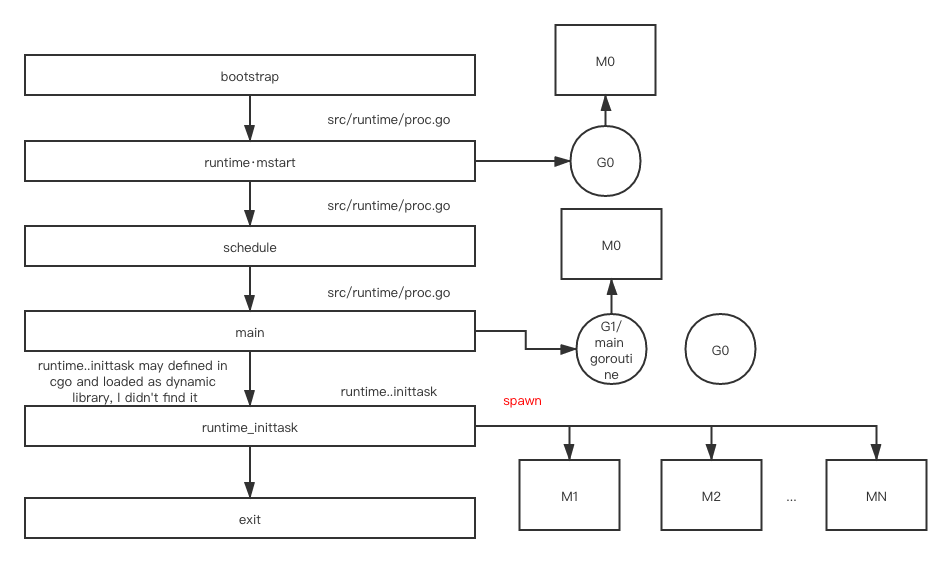
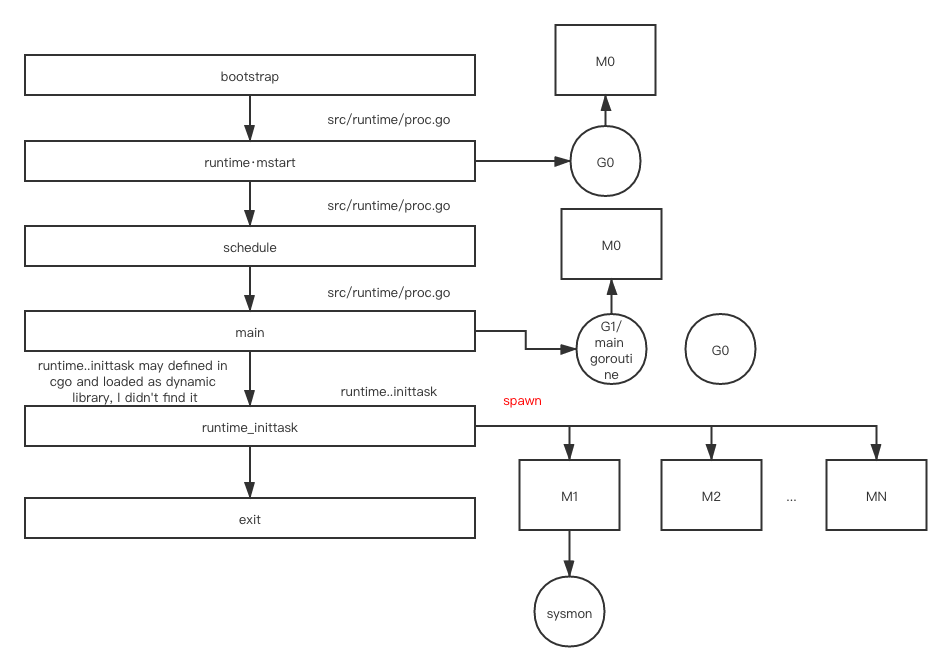
goroutine done

diff --git a/runtime/goroutine/goroutine_cn.md b/runtime/goroutine/goroutine_cn.md
@@ -1,0 +1,139 @@
+# goroutine![image title](http://www.zpoint.xyz:8080/count/tag.svg?url=github%2Fgo-Internals%2F/runtime/goroutine_cn)
+
+## 目录
+
+[相关位置文件](#相关位置文件)
+
+[概览](#概览)
+
+[调度](#调度)
+
+[为什么](#为什么)
+
+[更多资料](#更多资料)
+
+## 相关位置文件
+
+* src/runtime/runtime2.go
+* src/runtime/proc.go
+* src/plugin/plugin_dlopen.go
+
+## 概览
+
+如果你对 **MPG 在Go协程调度中代表什么并且是如何工作的** 感到疑惑, 请先参考 [更多资料](#更多资料) 中的 [scheduling-in-go-part1](https://www.ardanlabs.com/blog/2018/08/scheduling-in-go-part1.html) 到 [scheduling-in-go-part3](https://www.ardanlabs.com/blog/2018/12/scheduling-in-go-part3.html) 
+
+根据上述文章以及 Go 源码中的注释
+
+> M
+>
+> 操作系统线程,  ‘M’ 是 machine 的简写, 这个线程其实是被操作系统调度的, 并且操作系统仍然负责把线程调度到某个核心上运行
+>
+> P
+>
+> 逻辑处理器, 执行 Go 代码的时候, 必须要获得的资源. M 必须拥有与之相关联的 P 才能执行 Go 代码. 但是 M 不论在是否存在与之对应的 P 的时候, 都能被阻塞住或者卡在系统调用中
+>
+> G
+>
+> 一个 Goroutine 就是一个 [协程](https://zh.wikipedia.org/wiki/%E5%8D%8F%E7%A8%8B), 但是这是 Go, 所以我们把字母 “C”(Coroutine) 替换成 “G”(Goroutine), 你可以把 Goroutine 当成应用级别的线程, 他们和系统级别的线程在很多地方都非常相似, 只是说操作系统的线程是在 CPU 核心上进行上下文切换(切入切出), 而 Goroutine 是在 M 上进行上下文切换(切入切出)
+
+
+
+![mpg](./mpg.png)
+
+图片来自 [scheduling-in-go-part2](https://www.ardanlabs.com/blog/2018/08/scheduling-in-go-part2.html)
+
+```shell
+# GOSSAFUNC=main GOOS=linux GOARCH=amd64 go build -gcflags "-S" simple.go
+# GOSSAFUNC=main go_dev build -gcflags "-S" num_cpu.go
+# GODEBUG=schedtrace=DURATION,gctrace=1 go_dev run num_cpu.go
+# GODEBUG=schedtrace=DURATION go_dev run num_cpu.go
+find . -name '*.go' -exec grep -nHr 'inittask' {} \;
+```
+
+bootstrap 流程的一部分会在默认的 **M**(**M0**) 上运行一个 **G**, 这个 **G** 会执行 `runtime.mstart`, `runtime.mstart` 最终会进入 `schedule` 函数, `schedule` 函数会把 **G1** 调度到当前的 **M**(**M0**) 上运行, **G1** 会进入  `runtime/proc.go` 的 `main` 函数, `main` 中的 `doInit(&runtime_inittask)` 会默认初始化并生成至多 N 个 **M**(系统线程), N 是CPU核心数目, 在这之后, **G1** 运行到函数的末尾并执行 `exit(0)`
+
+实际上, 在 `runtime_inittask` 之前, 就会有一个新的  **M**(thread) 被生成, 一个 goroutine 会在 **M** 上执行 `sysmon` 函数, 之后 `runtime_inittask` 才会生成最多到 N 个 **M**(线程)
+
+我们以更直观的图表来展示一下
+
+![bootstrap](./bootstrap.png)
+
+对于 **M1** ... **MN** 中的每个 **M**, 都会有一个新的 **G** 在上面运行, 并且每个 **M** 上都会执行到 `runtime.mstart`, 通过 `runtime.mstart` 最终都会进入 `schedule` 函数并且让调度器进行调度
+
+我没有在源码中的 `go` 或 `c` 文件中找到 `runtime_inittask`, 但是我在 `src/plugin/plugin_dlopen.go` 中找到了从 `c` 动态链接库中装载 `inittask` 的方法, 也许他在 `src/runtime/asm_amd64.s` 这个汇编代码中, 后续找到再来研究这一块内容(如果你在我之前找到了, 欢迎提 pull request)
+
+## 调度
+
+可以在  `src/runtime/proc.go` 找到  `schedule` 函数的定义
+
+```go
+// 执行一轮调度: 找到一个可执行的 goroutine 并执行它
+// 这个函数不会返回
+func schedule() {
+		// ...
+  	if gp == nil && gcBlackenEnabled != 0 {
+		gp = gcController.findRunnableGCWorker(_g_.m.p.ptr())
+		tryWakeP = tryWakeP || gp != nil
+		}
+  	if gp == nil {
+		// 隔一段时间检查一下全局 goroutine 队列, 来保证公平
+		// 不然的话, 两个在本地队列的 goroutine 可以通过循环互相产生对方作为一个新的 goroutine 的方式, 来让本地队列永远有任务运行
+		if _g_.m.p.ptr().schedtick%61 == 0 && sched.runqsize > 0 {
+			lock(&sched.lock)
+			gp = globrunqget(_g_.m.p.ptr(), 1)
+			unlock(&sched.lock)
+		}
+	}
+	if gp == nil {
+		gp, inheritTime = runqget(_g_.m.p.ptr())
+	}
+	if gp == nil {
+		gp, inheritTime = findrunnable() // 这个调用会阻塞, 知道有任务可以执行为止才返回
+	}
+	// ...
+  execute(gp, inheritTime)
+}
+```
+
+调度的流程就比较清晰了
+
+(对于每个**P**)每隔61次调用调度之后, 就会尝试从全局队列里取一个任务出来, 默认情况则是从本地队列取一个任务出来(当前**P**对应的队列中)
+
+> 最后一部分的谜团就是运行队列(run queues), Go 的调度系统中有两种不同的运行队列, 全局运行队列(Global Run Queue/GRQ)和本地运行队列(Local Run Queue/LRQ), 每个 P 身上存储了一个对应的 LRQ 数据结构, 这个结构用来管理并存储 Goroutine, 这里的 Goroutine 运行时也需要依赖 P 的环境. 这些 P 身上存储的 Goroutine 轮流从 M 上面切换上去/切换出来(上下文切换). GRQ 是用来存储还没有对应的 P 的 Goroutine 的, 后续会讨论一个流程是把 Goroutine 从 GRQ 移动到 LRQ 的 (我: 上面代码中已经展示了)
+
+翻译自 [scheduling-in-go-part2](https://www.ardanlabs.com/blog/2018/08/scheduling-in-go-part2.html)
+
+![schedule](./schedule.png)
+
+
+
+在 `schedule` 中, `findrunnable` 会找到一个在当前 **P** 中可以运行的 goroutine, 本地队列是存储在 **P** 内部的
+
+## 为什么
+
+对于操作系统级别的线程(**M**)在 CPU 中进行上下文切换
+
+> 每一次上下文切换都会导致潜在的约 1000 纳秒的延时, 假设硬件的运行速度是每纳秒 12 个 CPU 指令, 你会发现在线程切换的时候本来可以执行 12000 个指令, 但是现在并没有执行, 并且线程还可能在 CPU 不同的核心间切换, CPU 缓存在这种情况下会失效, 会导致更大的线程切换开销, 更高的延时
+
+对于用户级别的协程(Goroutinue/**G**) 在 **M** 中进行上下文切换, 从操作系统的角度上看, 只是同一个线程在不停地执行指令而已, 并且只要你的 **Goroutinue** 有足够多的工作要做, 操作系统会认为你是一个 CPU 密集型的线程
+
+> 本质上, Go 把你的 IO/阻塞型 应用在操作系统层面变成了 CPU 密集型应用. 因为所有的上下文切换都发生在了应用层, 当我们通过线程运行程序时, 我们不会平均每次上下文切换都丢失大约 12000 个指令的执行时间. 在 Go 里, 相似的上下文切换占用大约 200 纳秒, 或者 2400 个指令,  并且调度器调度时会考虑到 CPU 缓存以及 [NUMA](http://frankdenneman.nl/2016/07/07/numa-deep-dive-part-1-uma-numa). 这也是为什么我们生成的线程数不需大于我们的核心数的原因
+>
+> 在 Go 中, 随着程序的运行, 我们可以认为更多的任务会被执行并且完成, 因为 Go 调度器会尝试用尽可能少的线程并且在每个线程中执行尽可能多的任务(协程), 通过这种方式降低操作系统和硬件的开销
+
+翻译自 [scheduling-in-go-part2](https://www.ardanlabs.com/blog/2018/08/scheduling-in-go-part2.html)
+
+
+
+ ## 更多资料
+
+[scheduling-in-go-part1](https://www.ardanlabs.com/blog/2018/08/scheduling-in-go-part1.html)
+
+[scheduling-in-go-part2](https://www.ardanlabs.com/blog/2018/08/scheduling-in-go-part2.html)
+
+[scheduling-in-go-part3](https://www.ardanlabs.com/blog/2018/12/scheduling-in-go-part3.html)
+
+[how-a-go-program-compiles-down-to-machine-code](https://getstream.io/blog/how-a-go-program-compiles-down-to-machine-code/)
+
+[How to call private functions (bind to hidden symbols) in GoLang](https://sitano.github.io/2016/04/28/golang-private/)
+

diff --git a/runtime/goroutine/goroutine.md b/runtime/goroutine/goroutine.md
@@ -1,5 +1,4 @@
-# goroutine
-
+# goroutine![image title](http://www.zpoint.xyz:8080/count/tag.svg?url=github%2Fgo-Internals%2F/runtime/goroutine)
 ## contents
 
 [related file](#related-file)
@@ -9,8 +8,6 @@
 [schedule](#schedule)
 
 [why](#why)
-
-[memory layout](#memory-layout)
 
 [read more](#read-more)
 
@@ -38,21 +35,23 @@ According to the above article and comment in Go source code
 >
 > A Goroutine is essentially a [Coroutine](https://en.wikipedia.org/wiki/Coroutine) but this is Go, so we replace the letter “C” with a “G” and we get the word Goroutine. You can think of Goroutines as application-level threads and they are similar to OS Threads in many ways. Just as OS Threads are context-switched on and off a core, Goroutines are context-switched on and off an M.
 
+![mpg](/Users/zpoint/Desktop/Go-Internals/runtime/goroutine/mpg.png)
 
+Above picture comes from [scheduling-in-go-part2](https://www.ardanlabs.com/blog/2018/08/scheduling-in-go-part2.html)
 
 ```shell
 # GOSSAFUNC=main GOOS=linux GOARCH=amd64 go build -gcflags "-S" simple.go
 # GOSSAFUNC=main go_dev build -gcflags "-S" num_cpu.go
 # GODEBUG=schedtrace=DURATION,gctrace=1 go_dev run num_cpu.go
-GODEBUG=schedtrace=DURATION go_dev run num_cpu.go
+# GODEBUG=schedtrace=DURATION go_dev run num_cpu.go
 find . -name '*.go' -exec grep -nHr 'inittask' {} \;
 ```
 
-Part of the bootstrap procedure use the default **M**(**M0**) to execute the run **G** which execute `runtime.mstart`, `runtime.mstart` will finally reach the `schedule` function which let **G1** runs on **M0**, **G1** will enter the `main` function defined in `runtime/proc.go`, and the `doInit(&runtime_inittask)` inside the `main` function will spawn N **M**(threads) by default, N is the number of processor number(including hyper-threading process), after that **G1** reach the end of code and call `exit(0)`
+Part of the bootstrap procedure use the default **M**(**M0**) to execute a **G** which execute `runtime.mstart`, `runtime.mstart` will finally reach the `schedule` function which let **G1** runs on **M0**, **G1** will enter the `main` function defined in `runtime/proc.go`, and the `doInit(&runtime_inittask)` inside the `main` function will spawn N **M**(threads) by default, N is the number of processor number(including hyper-threading process), after that **G1** reach the end of code and call `exit(0)`
 
-Actually, there will be a **M**(thread) ahead of `runtime_inittask`, a goroutine will execute `sysmon` function at the **M**, and `runtime_inittask` will spawn up to N **M**(threads)
+Actually, there will be a **M**(thread) ahead of `runtime_inittask`, a goroutine will execute `sysmon` function at the **M**, after that `runtime_inittask` will spawn up to N **M**(threads)
 
-Let's draw the diagram in an easier way
+Let's draw the diagram in a brief way
 
 ![bootstrap](./bootstrap.png)
 
@@ -98,13 +97,17 @@ func schedule() {
 
  The schedule procedure is clear
 
-It will get a goroutine from the global queue for every 61 ticks(for every **P**) of schedule call, otherwise, it will get a goroutine from the local queue attached to current P
+It will get a goroutine from the global queue for every 61 ticks(for every **P**) of schedule call, otherwise, it will get a goroutine from the local queue attached to current **P**
 
 > The last piece of the puzzle is the run queues. There are two different run queues in the Go scheduler: the Global Run Queue (GRQ) and the Local Run Queue (LRQ). Each P is given a LRQ that manages the Goroutines assigned to be executed within the context of a P. These Goroutines take turns being context-switched on and off the M assigned to that P. The GRQ is for Goroutines that have not been assigned to a P yet. There is a process to move Goroutines from the GRQ to a LRQ that we will discuss later.
 
 From [scheduling-in-go-part2](https://www.ardanlabs.com/blog/2018/08/scheduling-in-go-part2.html)
 
 ![schedule](./schedule.png)
+
+
+
+In `schedule`, `findrunnable` will find a runnable goroutine in the current **P**, the local run queue is stored inside the **P** structure
 
 ## why
 
@@ -117,6 +120,10 @@ For application level Goroutinue(**G**) context switch at application level, all
 > Essentially, Go has turned IO/Blocking work into CPU-bound work at the OS level. Since all the context switching is happening at the application level, we don’t lose the same ~12k instructions (on average) per context switch that we were losing when using Threads. In Go, those same context switches are costing you ~200 nanoseconds or ~2.4k instructions. The scheduler is also helping with gains on cache-line efficiencies and [NUMA](http://frankdenneman.nl/2016/07/07/numa-deep-dive-part-1-uma-numa). This is why we don’t need more Threads than we have virtual cores. In Go, it’s possible to get more work done, over time, because the Go scheduler attempts to use less Threads and do more on each Thread, which helps to reduce load on the OS and the hardware.
 
 From [scheduling-in-go-part2](https://www.ardanlabs.com/blog/2018/08/scheduling-in-go-part2.html)
+
+
+
+
 
  ## read more
 

diff --git a/README_CN.md b/README_CN.md
@@ -31,7 +31,9 @@ git reset --hard d317ba5d4489c1ef53d3077afbff30eb72d7d3b0
 
 # Runtime
 
-[goroutine](https://github.com/zpoint/Go-Internals/blob/1.15/runtime/goroutine/goroutine_cn.md)
+goroutine
 
-[gc](https://github.com/zpoint/Go-Internals/blob/1.15/runtime/gc/gc_cn.md)
+- [x] goroutine
+	- [x] [概览与调度](https://github.com/zpoint/Go-Internals/blob/1.15/runtime/goroutine/goroutine_cn.md)
+- [ ] [gc](https://github.com/zpoint/Go-Internals/blob/1.15/runtime/gc/gc_cn.md)
 

diff --git a/README.md b/README.md
@@ -27,6 +27,6 @@ git reset --hard d317ba5d4489c1ef53d3077afbff30eb72d7d3b0
 
 # Runtime
 
-- [ ] [goroutine](https://github.com/zpoint/Go-Internals/blob/1.15/runtime/goroutine/goroutine.md)
-
+- [x] goroutine
+	- [x] [overview and schedule](https://github.com/zpoint/Go-Internals/blob/1.15/runtime/goroutine/goroutine.md)
 - [ ] [gc](https://github.com/zpoint/Go-Internals/blob/1.15/runtime/gc/gc.md)
